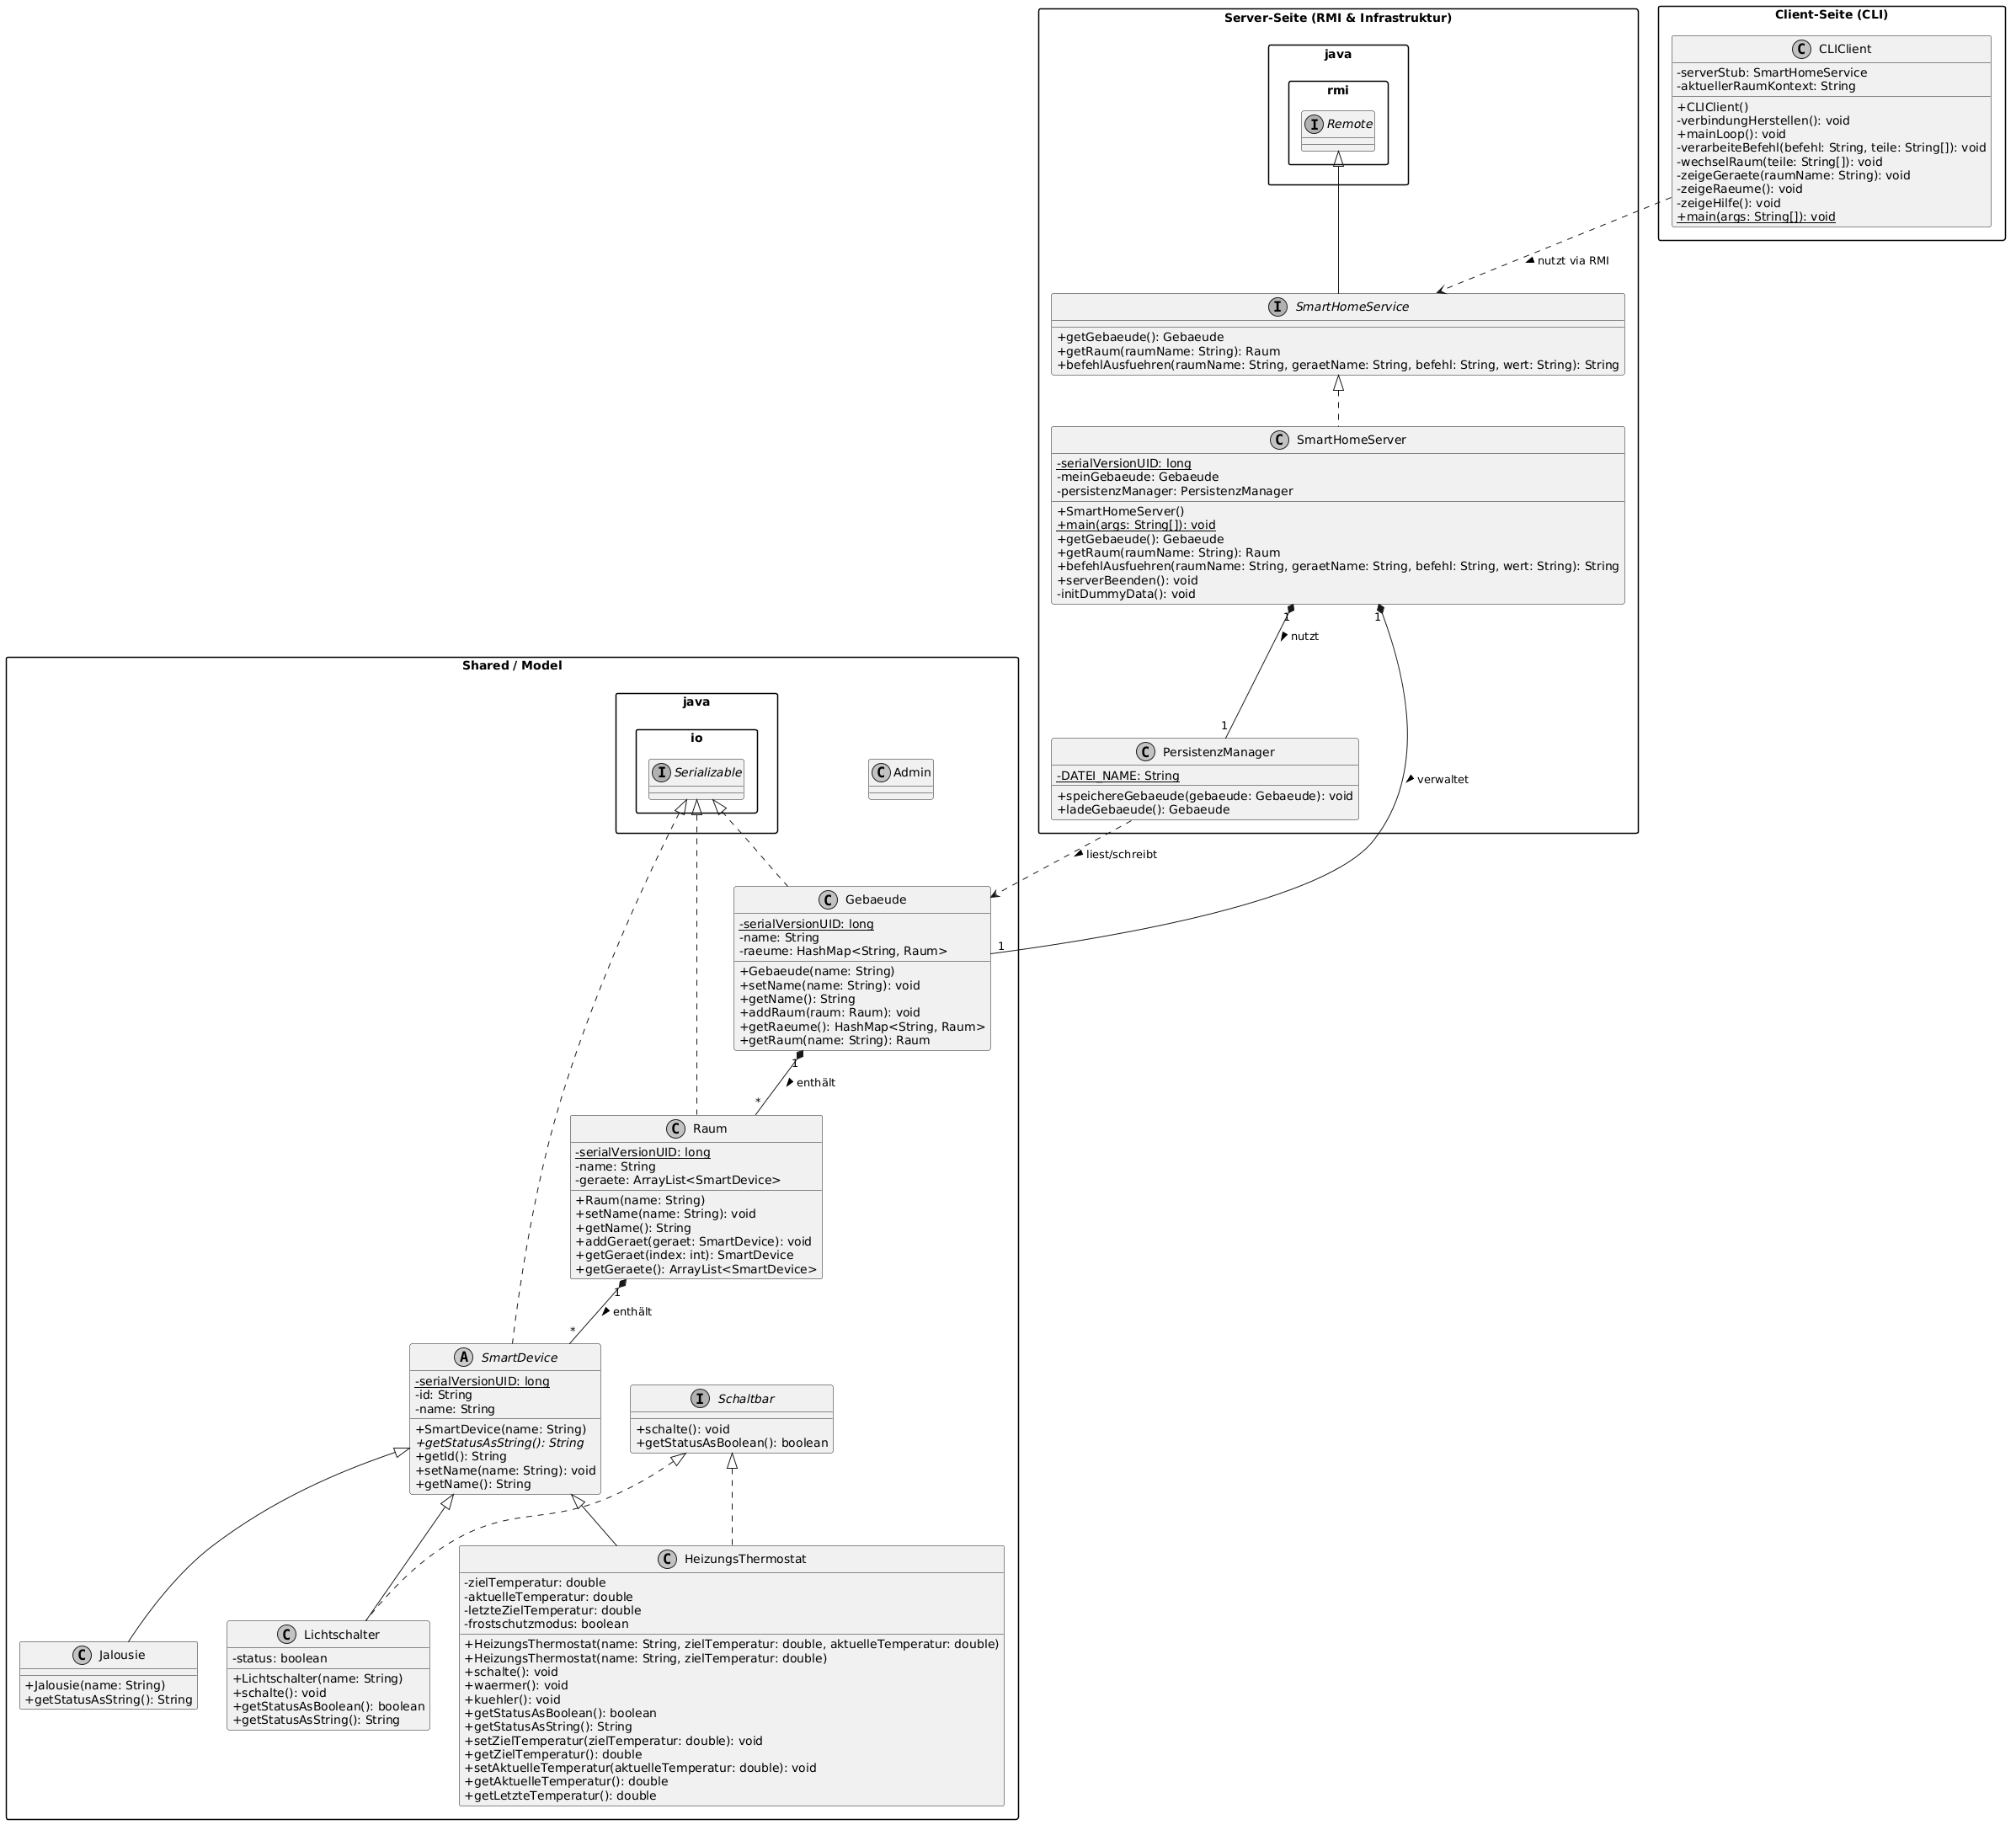
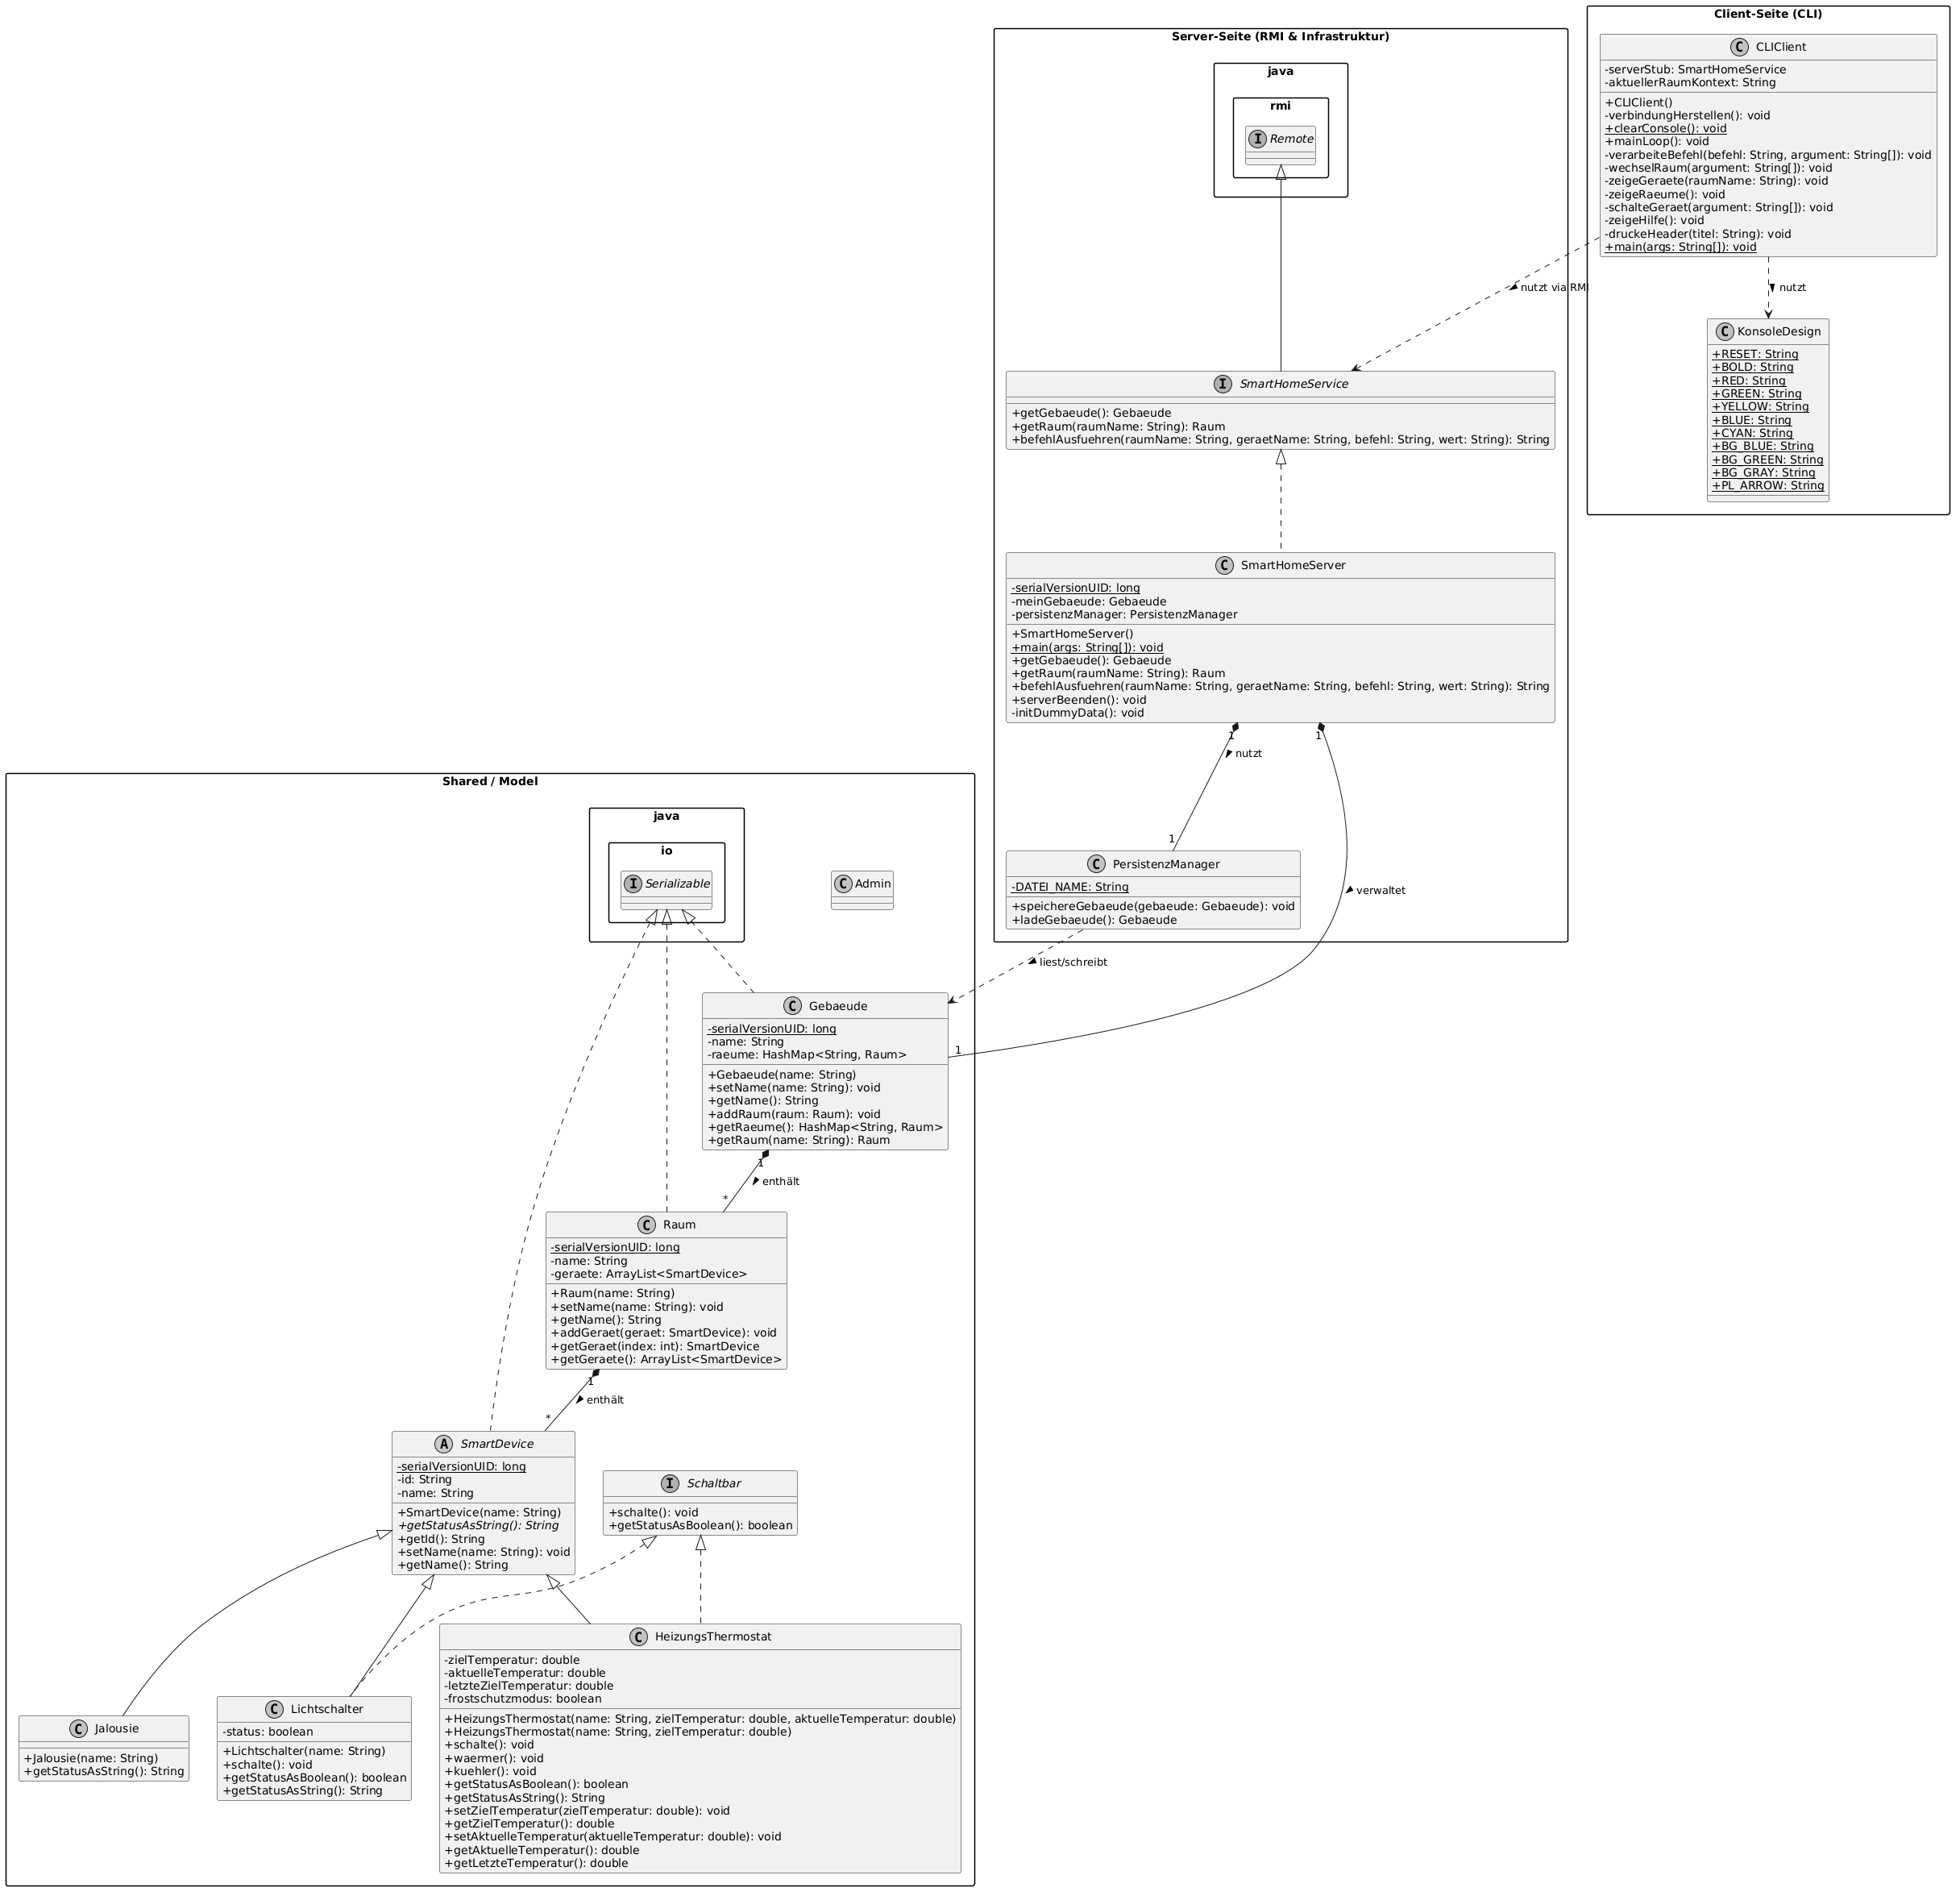
last changes before presentation

diff --git a/Smart-Home-System/src/client/CLIClient.java b/Smart-Home-System/src/client/CLIClient.java
@@ -35,7 +35,7 @@ public class CLIClient {
     }
 
     public static void clearConsole() {
-        System.out.print("\033[H\033[2J");
+        System.out.print("\033[H\033[2J"); // clear terminal screen an reset cursor
         System.out.flush();
     }
 
@@ -148,11 +148,11 @@ public class CLIClient {
         }
         else {
             druckeHeader(raumName);
-            System.out.printf(BLUE + BOLD + "|" + RESET + BOLD + " %-15s " + BLUE + "|" + RESET + BOLD + " %-30s " + BLUE + "|%n" + RESET, "Gerätename", "Aktueller Status");
+            System.out.printf(BLUE + BOLD + "|" + RESET + BOLD + " %-15s " + BLUE + "|" + RESET + BOLD + " %-30s " + BLUE + "|\n" + RESET, "Gerätename", "Aktueller Status");
             druckeHeader("");
 
             for (SmartDevice device : serverStub.getRaum(raumName).getGeraete()) {
-                System.out.printf("| %-15s | %-30s |%n", device.getName(), device.getStatusAsString());
+                System.out.printf("| %-15s | %-30s |\n", device.getName(), device.getStatusAsString());
             }
             druckeHeader("");
         }
@@ -165,14 +165,14 @@ public class CLIClient {
         }
 
         druckeHeader("GEBÄUDE-ÜBERSICHT");
-        System.out.printf(BLUE + "|" + BOLD + " %-71s" + RESET + BLUE + "                          |%n" + RESET, "Verfügbare Räume");
+        System.out.printf(BLUE + "|" + BOLD + " %-71s" + RESET + BLUE + "                          |\n" + RESET, "Verfügbare Räume");
         druckeHeader("");
 
         // über alle Schlüssel (Raumnamen) der HashMap iterieren
         for (String raumName : serverStub.getGebaeude().getRaeume().keySet()) {
             // ersten Buchstaben groß machen, damit schöner aussieht
             String anzeigeName = raumName.substring(0, 1).toUpperCase() + raumName.substring(1);
-            System.out.printf(BLUE + BOLD + "|" + RESET + BOLD + " %-71s " + BLUE + BOLD + "                         |%n" + RESET, anzeigeName);
+            System.out.printf(BLUE + BOLD + "|" + RESET + BOLD + " %-71s " + BLUE + BOLD + "%25s|\n" + RESET, anzeigeName, "");
         }
         druckeHeader("");
         System.out.println("Tipp: Nutzen Sie 'cd <raumname>', um einen Raum zu betreten.\n");
@@ -199,12 +199,12 @@ public class CLIClient {
 
     private void zeigeHilfe() {
         druckeHeader("VERFÜGBARE BEFEHLE");
-        System.out.println(BLUE + BOLD + "|" + RESET + " cd <raum>               " + BLUE + BOLD + "|" + RESET + " Wechselt in einen Raum                                                 " + BLUE + BOLD + "|" + RESET);
-        System.out.println(BLUE + BOLD + "|" + RESET + " cd ..                   " + BLUE + BOLD + "|" + RESET + " Verlässt den aktuellen Raum                                            " + BLUE + BOLD + "|" + RESET);
-        System.out.println(BLUE + BOLD + "|" + RESET + " ls                      " + BLUE + BOLD + "|" + RESET + " Listet alle Geräte im aktuellen Raum auf                               " + BLUE + BOLD + "|" + RESET);
-        System.out.println(BLUE + BOLD + "|" + RESET + " schalte <gerätname>     " + BLUE + BOLD + "|" + RESET + " Schaltet ein Gerät an/aus                                              " + BLUE + BOLD + "|" + RESET);
-        System.out.println(BLUE + BOLD + "|" + RESET + " set <gerätname> <wert>  " + BLUE + BOLD + "|" + RESET + " Setzt einen Wert                                                       " + BLUE + BOLD + "|" + RESET);
-        System.out.println(BLUE + BOLD + "|" + RESET + " exit                    " + BLUE + BOLD + "|" + RESET + " Beendet den Client                                                     " + BLUE + BOLD + "|" + RESET);
+        System.out.printf(BLUE + BOLD + "|" + RESET + " %-23s" + BLUE + BOLD + "|" + RESET + " %-72s" + BLUE + BOLD + "|\n" + RESET, "cd <raum>", "Wechselt in einen Raum");
+        System.out.printf(BLUE + BOLD + "|" + RESET + " %-23s" + BLUE + BOLD + "|" + RESET + " %-72s" + BLUE + BOLD + "|\n" + RESET, "cd ..", "Verlässt den aktuellen Raum");
+        System.out.printf(BLUE + BOLD + "|" + RESET + " %-23s" + BLUE + BOLD + "|" + RESET + " %-72s" + BLUE + BOLD + "|\n" + RESET, "ls", "Listet alle Geräte im aktuellen Raum auf");
+        System.out.printf(BLUE + BOLD + "|" + RESET + " %-23s" + BLUE + BOLD + "|" + RESET + " %-72s" + BLUE + BOLD + "|\n" + RESET, "schalte <gerätname>", "Schaltet ein Gerät an/aus");
+        System.out.printf(BLUE + BOLD + "|" + RESET + " %-23s" + BLUE + BOLD + "|" + RESET + " %-72s" + BLUE + BOLD + "|\n" + RESET, "set <gerätname> <wert>", "Setzt einen Wert");
+        System.out.printf(BLUE + BOLD + "|" + RESET + " %-23s" + BLUE + BOLD + "|" + RESET + " %-72s" + BLUE + BOLD + "|\n" + RESET, "exit", "Beendet den Client");
         druckeHeader("");
     }
 